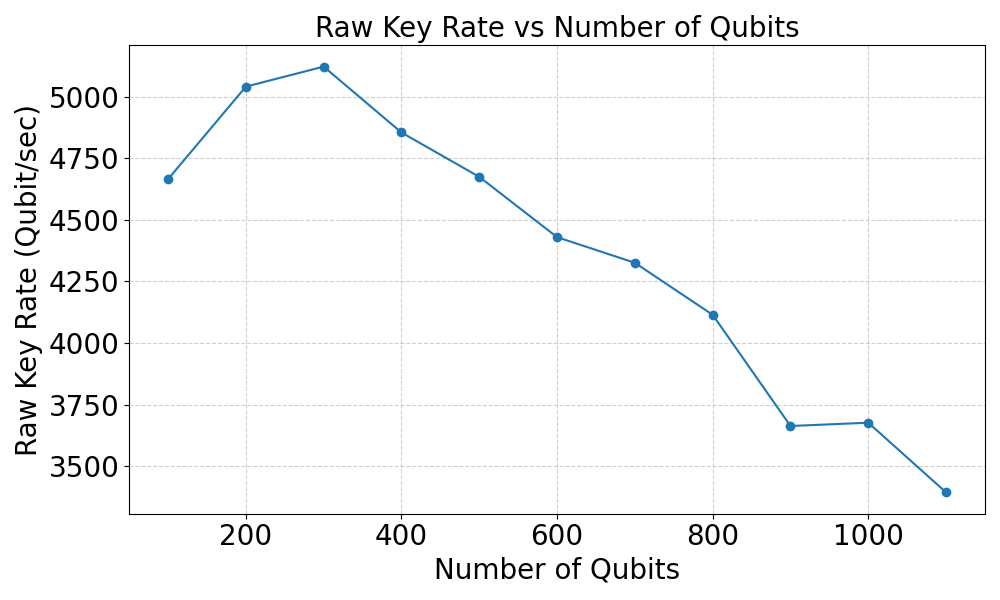
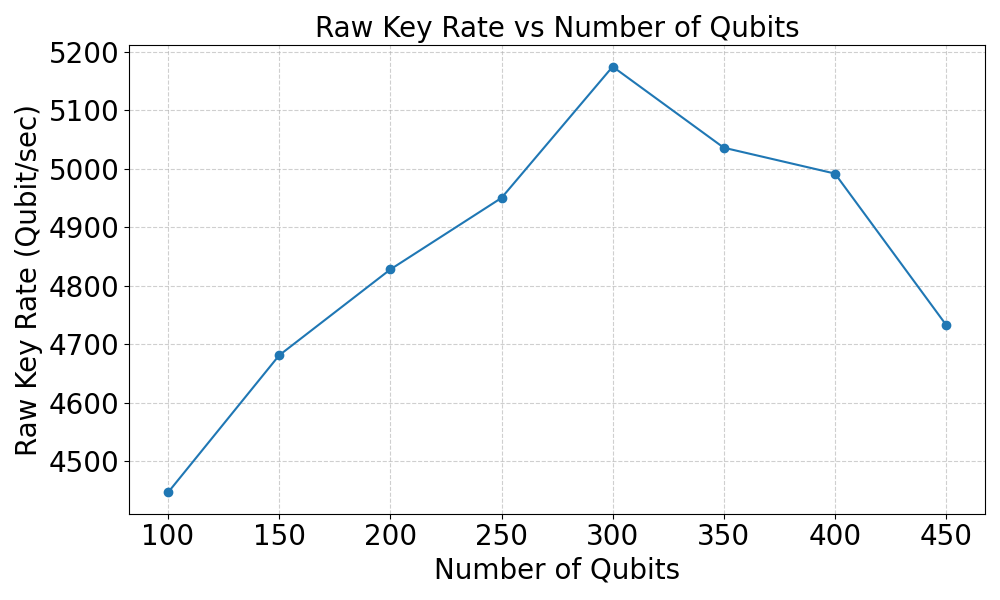
Simulate raw key rate

diff --git a/BB84/bb84_rawkeyrate.py b/BB84/bb84_rawkeyrate.py
@@ -190,7 +190,7 @@ def main():
     max_raw_keyrate = 0
     raw_keyrates = []
     best_num_qubits = None
-    num_qubits_list = list(range(100, 1200, 100))
+    num_qubits_list = list(range(100, 500, 50))
 
     count_per_qubit = 100  # 各qubit数での実行回数
 
